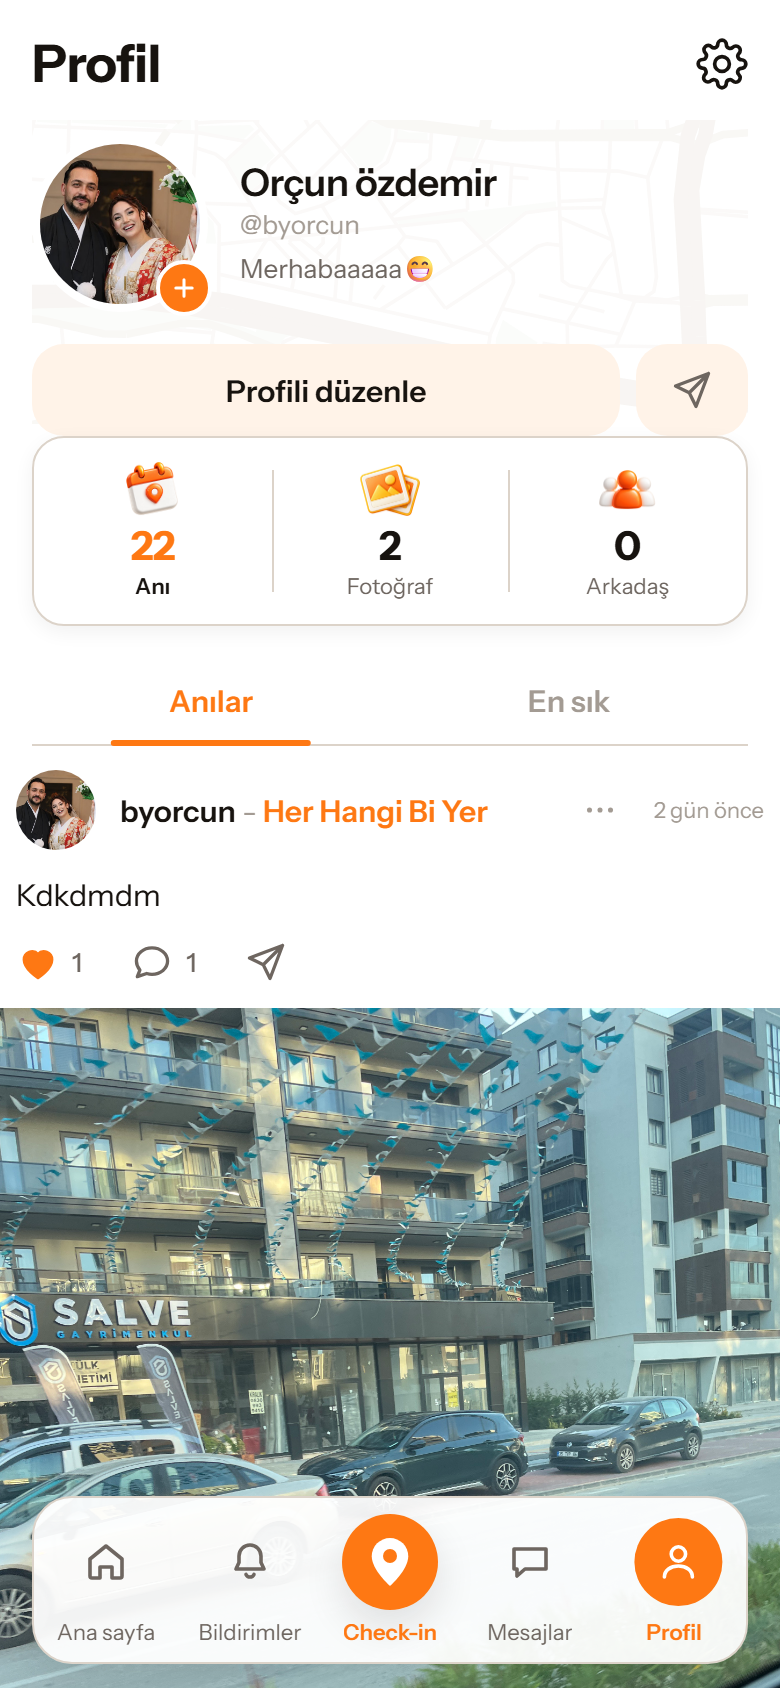
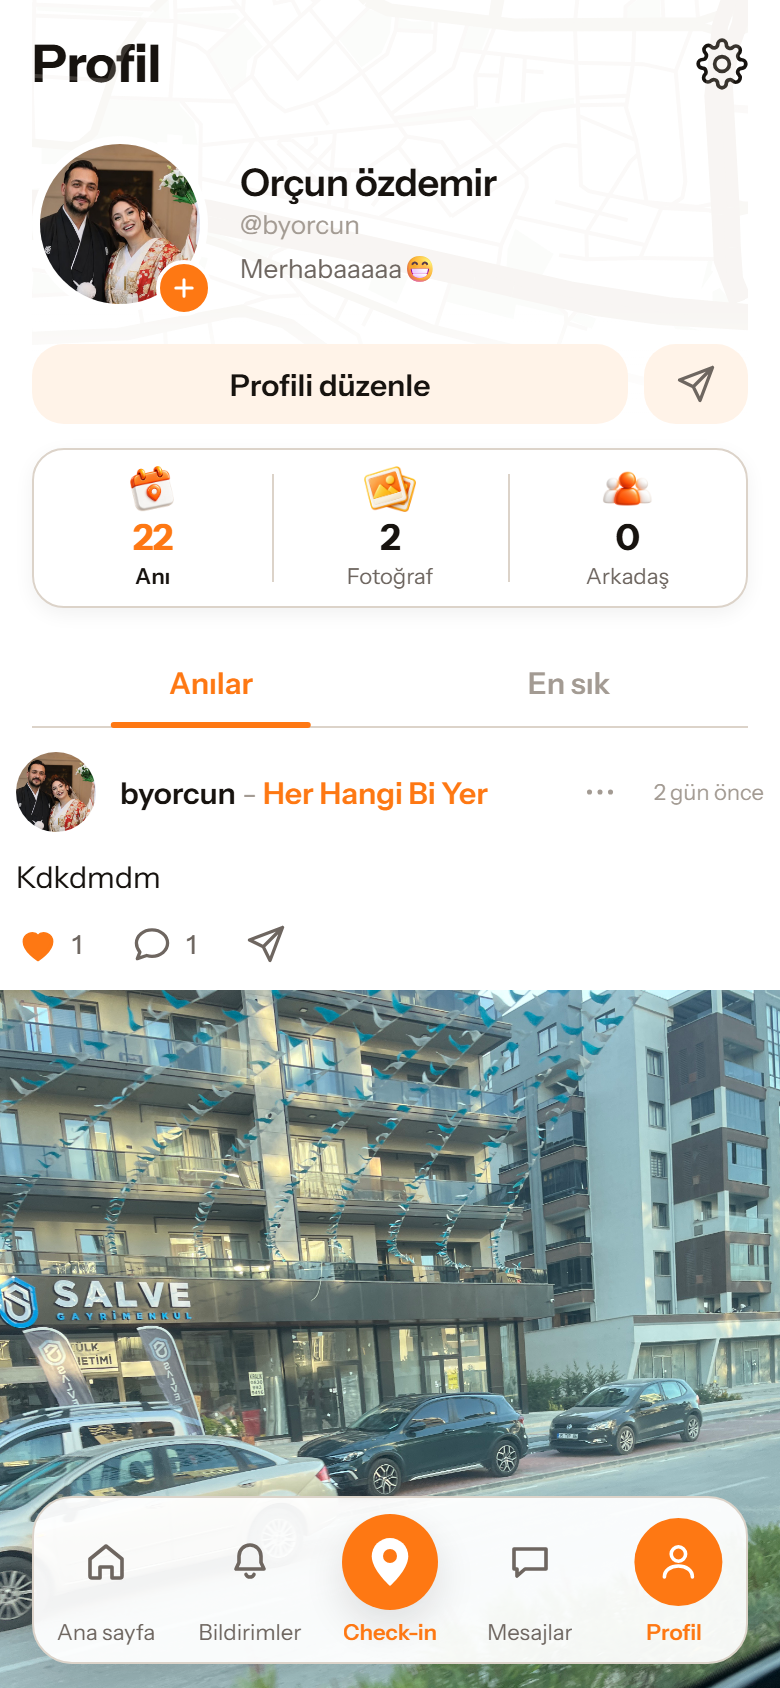
fix(profil): sayac karti butondan ayrildi, harita yukari uzatildi
Kullanicinin uc duzeltmesi:

1. "Bu kismi kucult, profili duzenleyle ust uste binmis" - olculdu:
   buton 218pt'de bitiyor, sayac karti TAM 218pt'de basliyordu, yani
   sifir bosluk vardi. Karta marginTop eklendi; ayrica dikey dolgu
   12->8, ikon 30x27->26x23, sayi 20->18 ile kart kisaldi.

2. "Arkasindaki harita gorselini de daha yukari dogru uzat, bitisi
   gorunmesin" - ProfilHaritaZemini'ne ustTasma prop'u geldi; doku
   negatif top ile ust cubugun arkasina uzaniyor ve alt kenarda
   LinearGradient ile zemine sonuyor. Sadece overflow:hidden ile
   kesmek alt kenarda keskin bir cizgi birakiyordu.

3. "Profili duzenle sutununu incelt biraz" - duzenle butonu 46->40,
   paylas butonu 56x46->52x40.

Iki modda da canli ekran goruntusuyle dogrulandi.

Claude-Session: https://claude.ai/code/session_0147kohQ2crdMwyW7akyN9Sq

diff --git a/mobil/src/tasarim/ProfilHaritaZemini.tsx b/mobil/src/tasarim/ProfilHaritaZemini.tsx
@@ -1,4 +1,5 @@
 import { View, StyleSheet } from 'react-native'
+import { LinearGradient } from 'expo-linear-gradient'
 import Svg, { Path } from 'react-native-svg'
 import { ANA_YOLLAR, ORTA_YOLLAR, INCE_YOLLAR, YESIL_ALANLAR } from './karsilama-harita'
 import { useRenk } from './tema-baglami'
@@ -29,10 +30,20 @@ import { useRenk } from './tema-baglami'
  * disaridan geliyor cunku sinir bir TASARIM karari - kullanici
  * "profili duzenle yazisina kadar olsun yeter" dedi.
  */
-export function ProfilHaritaZemini({ yukseklik }: { yukseklik: number }) {
+export function ProfilHaritaZemini({
+  yukseklik,
+  ustTasma = 0,
+}: {
+  yukseklik: number
+  /** Dokunun kabin USTUNE tasma miktari; kenari ekran disinda kalsin. */
+  ustTasma?: number
+}) {
   const renk = useRenk()
   return (
-    <View style={[stiller.kap, { height: yukseklik }]} pointerEvents="none">
+    <View
+      style={[stiller.kap, { height: yukseklik + ustTasma, top: -ustTasma }]}
+      pointerEvents="none"
+    >
       <Svg
         width="100%"
         height="100%"
@@ -52,6 +63,25 @@ export function ProfilHaritaZemini({ yukseklik }: { yukseklik: number }) {
           <Path key={`a${i}`} d={d} stroke={renk.haritaYolAna} strokeWidth={6.5} fill="none" />
         ))}
       </Svg>
+
+      {/* ALT KENARDA SONME.
+      
+          Kullanicinin istegi (2026-09-11): "bitisi gorunmesin". Yalnizca
+          `overflow: hidden` ile kesmek alt kenarda KESKIN bir cizgi
+          birakiyordu - doku yarim kalmis bir gorsel gibi okunuyordu.
+          
+          Gradyan zeminin KENDI rengiyle basliyor: seffaftan zemine
+          gitmek yerine zeminden seffafa gitmek gerekiyor ki doku
+          sayfanin icinde eriyip kaybolsun.
+          
+          `expo-linear-gradient` zaten bagimliliklarda (2026-09-03'ten
+          beri), yeni paket eklenmedi. */}
+      <LinearGradient
+        colors={[renk.zemin + '00', renk.zemin]}
+        locations={[0, 1]}
+        style={stiller.sonme}
+        pointerEvents="none"
+      />
     </View>
   )
 }
@@ -71,8 +101,10 @@ const stiller = StyleSheet.create({
     position: 'absolute',
     left: 0,
     right: 0,
-    top: 0,
     overflow: 'hidden',
     opacity: 0.18,
   },
+  /* Sonme dokunun ALT UCTE BIRINI kapliyor: daha kisa olsaydi gecis
+     ani, daha uzun olsaydi doku ortasindan sonmeye baslardi. */
+  sonme: { position: 'absolute', left: 0, right: 0, bottom: 0, height: 56 },
 })

diff --git a/mobil/src/app/profil/index.tsx b/mobil/src/app/profil/index.tsx
@@ -151,6 +151,17 @@ function AyarlarIkonu() {
  */
 const HARITA_YUKSEKLIGI = 152
 
+/**
+ * Dokunun UST CUBUGUN ARKASINA tasma miktari.
+ *
+ * Kullanicinin istegi (2026-09-11): "arkasindaki harita gorselini de
+ * daha yukari dogru uzat, bitisi gorunmesin." Doku `kimlikKap`
+ * icinde basliyordu ve ust kenari "Profil" basliginin hemen altinda
+ * keskin bir cizgi birakiyordu. Negatif konumla basligin ardina
+ * uzaniyor, yani kenar ekranin disinda kaliyor.
+ */
+const HARITA_UST_TASMA = 96
+
 const EN_FAZLA_YER = 20
 
 /**
@@ -568,7 +579,10 @@ export default function ProfilEkrani() {
                 satirinin ustunde bitiyor ("profili duzenle yazisina
                 kadar olsun yeter"). */}
             <View style={stiller.kimlikKap}>
-              <ProfilHaritaZemini yukseklik={HARITA_YUKSEKLIGI} />
+              <ProfilHaritaZemini
+                yukseklik={HARITA_YUKSEKLIGI}
+                ustTasma={HARITA_UST_TASMA}
+              />
 
               <View style={stiller.kimlik}>
                 <View style={stiller.avatarBasilir}>
@@ -1065,7 +1079,11 @@ const stilleriYap = (renk: Renk) => StyleSheet.create({
   eylemler: { flexDirection: 'row' as const, gap: bosluk.s },
   duzenleButonu: {
     flex: 1,
-    height: 46,
+    // 46 -> 40 (kullanicinin istegi 2026-09-11: "profili duzenle
+    // sutununu incelt biraz"). 44 pt dokunma esiginin altina
+    // INMIYOR - 40 + satirin cevresindeki bosluk yeterli alan
+    // birakiyor ve buton sayfa genisliginde, yani hedef genis.
+    height: 40,
     borderRadius: yuvarlak.kart,
     backgroundColor: renk.turuncuZemin,
     alignItems: 'center' as const,
@@ -1077,8 +1095,10 @@ const stilleriYap = (renk: Renk) => StyleSheet.create({
     color: renk.metin,
   },
   paylasButonu: {
-    width: 56,
-    height: 46,
+    width: 52,
+    // Duzenle butonuyla ayni yukseklik: ikisi tek bir satir gibi
+    // okunmali, biri otekinden yuksek olursa satir kirilir.
+    height: 40,
     borderRadius: yuvarlak.kart,
     backgroundColor: renk.turuncuZemin,
     alignItems: 'center' as const,

diff --git a/mobil/src/tasarim/ProfilSayaclari.tsx b/mobil/src/tasarim/ProfilSayaclari.tsx
@@ -93,7 +93,16 @@ const stilleriYap = (renk: Renk) =>
       borderRadius: yuvarlak.kart,
       borderWidth: 1,
       borderColor: renk.cizgi,
-      paddingVertical: bosluk.m,
+      /*
+       * UST BOSLUK SART: kart ustundeki eylem satirina (kendi
+       * profilde "Profili düzenle", baskasininkinde "Arkadaş ekle")
+       * YAPISIKTI ve kullanici "ust uste binmis" diye bildirdi.
+       * Olculdu: buton 218pt'de bitiyor, kart tam 218pt'de basliyordu
+       * - aralarinda SIFIR bosluk vardi (2026-09-11).
+       */
+      marginTop: bosluk.m,
+      // Dikey dolgu 12 -> 8: kullanicinin istegi "bu kismi kucult".
+      paddingVertical: bosluk.s,
       ...golge.kart,
     },
     sayac: {
@@ -109,10 +118,10 @@ const stilleriYap = (renk: Renk) =>
       width: 1,
       backgroundColor: renk.cizgi,
     },
-    gorsel: { width: 30, height: 27, marginBottom: 3 },
+    gorsel: { width: 26, height: 23, marginBottom: 2 },
     sayi: {
       fontFamily: yazi.ekranBasligi,
-      fontSize: 20,
+      fontSize: 18,
       color: renk.metin,
       letterSpacing: -0.4,
     },
